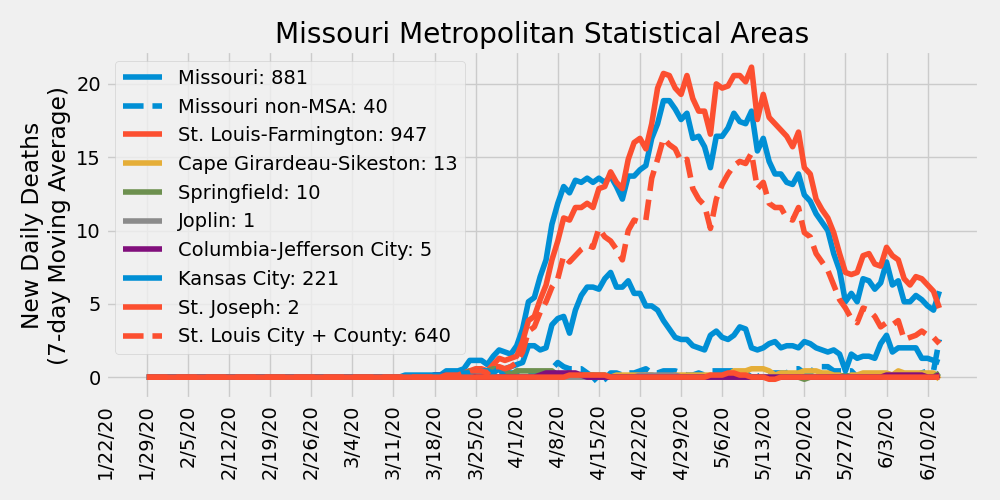
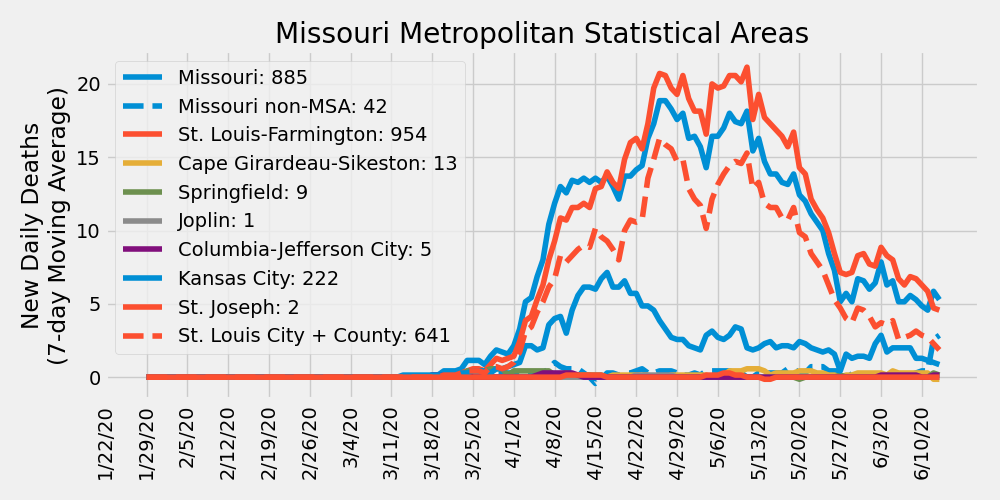
update 6/14/2020

diff --git a/ajvogt-analysis/missouri_analysis.md b/ajvogt-analysis/missouri_analysis.md
@@ -1,6 +1,6 @@
 # COVID-19 Missouri Statistics & Regional Breakdowns
 Author: Adam J. Vogt  
-Updated: 06/13/2020  
+Updated: 06/14/2020  
 Source: [COVID-19 Data Repository by the Center for Systems Science and Engineering (CSSE) at Johns Hopkins University](https://github.com/CSSEGISandData/COVID-19)  
 Source Code: `/ajvogt-analysis/mo_analysis_script.py`
 
@@ -15,68 +15,68 @@ Legend shows cumulative confirmed cases
 ## Metropolitan Statistical Area (MSA) Counties
 | MSA | State | County | Total Cases | Cases (Last 14 Days) | Cases (Last 7 Days) |
 |-----|-------|--------|---|---|---|
-| St. Louis-Farmington | Missouri | Lincoln | 88 | -21 | -30 |
-| St. Louis-Farmington | Missouri | Warren | 31 | 3 | 2 |
-| St. Louis-Farmington | Missouri | Franklin | 166 | 26 | 17 |
-| St. Louis-Farmington | Missouri | Jefferson | 374 | 25 | -24 |
-| St. Louis-Farmington | Missouri | St. Charles | 882 | 114 | 61 |
-| St. Louis-Farmington | Missouri | St. Louis | 5460 | 480 | 198 |
-| St. Louis-Farmington | Missouri | St. Louis City | 2179 | 263 | 126 |
-| St. Louis-Farmington | Missouri | St. Francois | 40 | 6 | 2 |
-| St. Louis-Farmington | Illinois | Monroe | 106 | 12 | 6 |
-| St. Louis-Farmington | Illinois | St. Clair | 1392 | 301 | 130 |
-| St. Louis-Farmington | Illinois | Madison | 683 | 118 | 59 |
+| St. Louis-Farmington | Missouri | Lincoln | 87 | -22 | -34 |
+| St. Louis-Farmington | Missouri | Warren | 30 | 2 | 1 |
+| St. Louis-Farmington | Missouri | Franklin | 166 | 27 | 16 |
+| St. Louis-Farmington | Missouri | Jefferson | 376 | 27 | -22 |
+| St. Louis-Farmington | Missouri | St. Charles | 890 | 115 | 54 |
+| St. Louis-Farmington | Missouri | St. Louis | 5506 | 492 | 201 |
+| St. Louis-Farmington | Missouri | St. Louis City | 2195 | 265 | 127 |
+| St. Louis-Farmington | Missouri | St. Francois | 40 | 5 | 1 |
+| St. Louis-Farmington | Illinois | Monroe | 109 | 14 | 9 |
+| St. Louis-Farmington | Illinois | St. Clair | 1422 | 301 | 126 |
+| St. Louis-Farmington | Illinois | Madison | 707 | 135 | 73 |
 | St. Louis-Farmington | Illinois | Macoupin | 46 | 1 | 0 |
 | St. Louis-Farmington | Illinois | Jersey | 28 | 8 | 4 |
-| St. Louis-Farmington | Illinois | Clinton | 203 | 22 | 13 |
+| St. Louis-Farmington | Illinois | Clinton | 207 | 21 | 14 |
 | St. Louis-Farmington | Illinois | Calhoun | 1 | 0 | 0 |
 | St. Louis-Farmington | Illinois | Bond | 12 | 0 | 0 |
-| Cape Girardeau-Sikeston | Missouri | Cape Girardeau | 101 | 28 | 18 |
-| Cape Girardeau-Sikeston | Missouri | Bollinger | 8 | 2 | 1 |
-| Cape Girardeau-Sikeston | Illinois | Alexander | 16 | 8 | 2 |
-| Cape Girardeau-Sikeston | Missouri | Scott | 134 | 34 | 15 |
-| Springfield | Missouri | Greene | 185 | 46 | 14 |
-| Springfield | Missouri | Christian | 29 | 8 | 0 |
+| Cape Girardeau-Sikeston | Missouri | Cape Girardeau | 104 | 31 | 19 |
+| Cape Girardeau-Sikeston | Missouri | Bollinger | 9 | 3 | 2 |
+| Cape Girardeau-Sikeston | Illinois | Alexander | 17 | 9 | 2 |
+| Cape Girardeau-Sikeston | Missouri | Scott | 139 | 31 | 18 |
+| Springfield | Missouri | Greene | 188 | 40 | 14 |
+| Springfield | Missouri | Christian | 29 | 6 | 0 |
 | Springfield | Missouri | Webster | 18 | 1 | 0 |
-| Springfield | Missouri | Polk | 7 | 4 | 3 |
+| Springfield | Missouri | Polk | 8 | 5 | 4 |
 | Springfield | Missouri | Dallas | 6 | 3 | 2 |
-| Joplin | Missouri | Jasper | 107 | 71 | 61 |
-| Joplin | Missouri | Newton | 49 | 33 | 26 |
+| Joplin | Missouri | Jasper | 122 | 86 | 72 |
+| Joplin | Missouri | Newton | 62 | 46 | 36 |
 | Columbia-Jefferson City | Missouri | Howard | 3 | 0 | 0 |
-| Columbia-Jefferson City | Missouri | Boone | 204 | 60 | 31 |
+| Columbia-Jefferson City | Missouri | Boone | 208 | 61 | 23 |
 | Columbia-Jefferson City | Missouri | Cooper | 9 | 0 | 0 |
 | Columbia-Jefferson City | Missouri | Moniteau | 49 | 3 | 0 |
 | Columbia-Jefferson City | Missouri | Cole | 57 | -3 | -4 |
-| Columbia-Jefferson City | Missouri | Callaway | 34 | 7 | 2 |
+| Columbia-Jefferson City | Missouri | Callaway | 36 | 7 | 4 |
 | Columbia-Jefferson City | Missouri | Osage | 5 | 0 | 0 |
-| Kansas City | Missouri | Kansas City | 1680 | 563 | 212 |
-| Kansas City | Missouri | Jackson | 791 | 231 | 105 |
-| Kansas City | Missouri | Clay | 284 | 117 | 98 |
-| Kansas City | Missouri | Cass | 111 | 26 | 11 |
-| Kansas City | Missouri | Platte | 89 | 19 | 12 |
-| Kansas City | Missouri | Lafayette | 84 | 11 | 4 |
-| Kansas City | Missouri | Ray | 24 | 5 | 1 |
-| Kansas City | Missouri | Clinton | 19 | 1 | -1 |
+| Kansas City | Missouri | Kansas City | 1690 | 541 | 189 |
+| Kansas City | Missouri | Jackson | 819 | 249 | 123 |
+| Kansas City | Missouri | Clay | 288 | 117 | 62 |
+| Kansas City | Missouri | Cass | 111 | 22 | 9 |
+| Kansas City | Missouri | Platte | 97 | 27 | 20 |
+| Kansas City | Missouri | Lafayette | 85 | 12 | 4 |
+| Kansas City | Missouri | Ray | 25 | 6 | 2 |
+| Kansas City | Missouri | Clinton | 20 | 2 | 0 |
 | Kansas City | Missouri | Bates | 12 | 5 | 0 |
-| Kansas City | Missouri | Caldwell | 7 | 2 | 0 |
-| Kansas City | Kansas | Johnson | 1015 | 214 | 105 |
-| Kansas City | Kansas | Wyandotte | 1626 | 291 | 155 |
+| Kansas City | Missouri | Caldwell | 7 | 2 | -1 |
+| Kansas City | Kansas | Johnson | 1031 | 219 | 100 |
+| Kansas City | Kansas | Wyandotte | 1638 | 301 | 152 |
 | Kansas City | Kansas | Leavenworth | 1106 | 24 | 6 |
 | Kansas City | Kansas | Miami | 16 | 9 | 9 |
 | Kansas City | Kansas | Linn | 11 | 0 | 0 |
-| St. Joseph | Missouri | Andrew | 34 | 4 | 2 |
-| St. Joseph | Missouri | Buchanan | 772 | 85 | 31 |
-| St. Joseph | Missouri | DeKalb | 7 | 1 | 1 |
+| St. Joseph | Missouri | Andrew | 35 | 5 | 2 |
+| St. Joseph | Missouri | Buchanan | 784 | 94 | 40 |
+| St. Joseph | Missouri | DeKalb | 8 | 2 | 1 |
 | St. Joseph | Kansas | Doniphan | 20 | 5 | 2 |
-| Missouri non-MSA | Missouri | Adair | 75 | 25 | 8 |
+| Missouri non-MSA | Missouri | Adair | 80 | 29 | 12 |
 | Missouri non-MSA | Missouri | Atchison | 3 | 0 | 0 |
-| Missouri non-MSA | Missouri | Audrain | 122 | 49 | 14 |
-| Missouri non-MSA | Missouri | Barry | 9 | 0 | 0 |
+| Missouri non-MSA | Missouri | Audrain | 122 | 43 | 11 |
+| Missouri non-MSA | Missouri | Barry | 10 | 1 | 1 |
 | Missouri non-MSA | Missouri | Barton | 1 | 1 | 1 |
-| Missouri non-MSA | Missouri | Benton | 14 | 4 | 2 |
-| Missouri non-MSA | Missouri | Butler | 40 | 8 | -7 |
+| Missouri non-MSA | Missouri | Benton | 14 | 3 | 1 |
+| Missouri non-MSA | Missouri | Butler | 41 | 6 | -6 |
 | Missouri non-MSA | Missouri | Camden | 38 | 0 | 0 |
-| Missouri non-MSA | Missouri | Carroll | 9 | 1 | 0 |
+| Missouri non-MSA | Missouri | Carroll | 10 | 2 | 1 |
 | Missouri non-MSA | Missouri | Carter | 5 | 0 | 0 |
 | Missouri non-MSA | Missouri | Cedar | 9 | 0 | 0 |
 | Missouri non-MSA | Missouri | Chariton | 6 | 0 | 0 |
@@ -86,58 +86,58 @@ Legend shows cumulative confirmed cases
 | Missouri non-MSA | Missouri | Daviess | 7 | 3 | 2 |
 | Missouri non-MSA | Missouri | Dent | 1 | 1 | 1 |
 | Missouri non-MSA | Missouri | Douglas | 3 | 3 | 3 |
-| Missouri non-MSA | Missouri | Dunklin | 54 | 21 | 6 |
+| Missouri non-MSA | Missouri | Dunklin | 55 | 17 | 7 |
 | Missouri non-MSA | Missouri | Gasconade | 2 | 0 | 0 |
-| Missouri non-MSA | Missouri | Gentry | 54 | 28 | 8 |
-| Missouri non-MSA | Missouri | Grundy | 8 | 8 | 8 |
+| Missouri non-MSA | Missouri | Gentry | 54 | 28 | 2 |
+| Missouri non-MSA | Missouri | Grundy | 12 | 12 | 12 |
 | Missouri non-MSA | Missouri | Harrison | 9 | 0 | 0 |
-| Missouri non-MSA | Missouri | Henry | 16 | 5 | 4 |
+| Missouri non-MSA | Missouri | Henry | 16 | 4 | 4 |
 | Missouri non-MSA | Missouri | Hickory | 0 | 0 | 0 |
 | Missouri non-MSA | Missouri | Holt | 1 | 0 | -1 |
-| Missouri non-MSA | Missouri | Howell | 19 | 13 | 8 |
+| Missouri non-MSA | Missouri | Howell | 20 | 13 | 8 |
 | Missouri non-MSA | Missouri | Iron | 2 | 0 | -1 |
 | Missouri non-MSA | Missouri | Knox | 2 | 2 | 2 |
 | Missouri non-MSA | Missouri | Laclede | 9 | 6 | 2 |
 | Missouri non-MSA | Missouri | Lawrence | 7 | -1 | -1 |
 | Missouri non-MSA | Missouri | Lewis | 7 | 0 | 0 |
-| Missouri non-MSA | Missouri | Livingston | 4 | 1 | 0 |
-| Missouri non-MSA | Missouri | McDonald | 63 | 43 | 40 |
-| Missouri non-MSA | Missouri | Macon | 6 | 2 | 0 |
+| Missouri non-MSA | Missouri | Livingston | 7 | 4 | 2 |
+| Missouri non-MSA | Missouri | McDonald | 70 | 50 | 45 |
+| Missouri non-MSA | Missouri | Macon | 7 | 3 | 1 |
 | Missouri non-MSA | Missouri | Maries | 2 | 0 | 0 |
-| Missouri non-MSA | Missouri | Marion | 7 | 2 | 2 |
+| Missouri non-MSA | Missouri | Marion | 8 | 3 | 3 |
 | Missouri non-MSA | Missouri | Mercer | 5 | 5 | 5 |
 | Missouri non-MSA | Missouri | Miller | 4 | 0 | 0 |
-| Missouri non-MSA | Missouri | Mississippi | 70 | 14 | 9 |
-| Missouri non-MSA | Missouri | Montgomery | 12 | 3 | 2 |
+| Missouri non-MSA | Missouri | Mississippi | 71 | 15 | 10 |
+| Missouri non-MSA | Missouri | Montgomery | 12 | 3 | 1 |
 | Missouri non-MSA | Missouri | Morgan | 9 | 0 | 0 |
-| Missouri non-MSA | Missouri | New Madrid | 32 | 12 | 11 |
-| Missouri non-MSA | Missouri | Nodaway | 15 | 3 | 1 |
-| Missouri non-MSA | Missouri | Oregon | 3 | 1 | 1 |
+| Missouri non-MSA | Missouri | New Madrid | 35 | 14 | 14 |
+| Missouri non-MSA | Missouri | Nodaway | 15 | 2 | 1 |
+| Missouri non-MSA | Missouri | Oregon | 4 | 2 | 2 |
 | Missouri non-MSA | Missouri | Ozark | 0 | 0 | 0 |
-| Missouri non-MSA | Missouri | Pemiscot | 99 | 23 | 9 |
-| Missouri non-MSA | Missouri | Perry | 80 | 25 | 11 |
-| Missouri non-MSA | Missouri | Pettis | 84 | 6 | 5 |
+| Missouri non-MSA | Missouri | Pemiscot | 102 | 24 | 11 |
+| Missouri non-MSA | Missouri | Perry | 84 | 27 | 15 |
+| Missouri non-MSA | Missouri | Pettis | 85 | 7 | 6 |
 | Missouri non-MSA | Missouri | Phelps | 6 | 2 | 1 |
-| Missouri non-MSA | Missouri | Pike | 31 | 14 | 3 |
-| Missouri non-MSA | Missouri | Pulaski | 106 | 72 | 67 |
+| Missouri non-MSA | Missouri | Pike | 31 | 12 | 3 |
+| Missouri non-MSA | Missouri | Pulaski | 106 | 72 | -1 |
 | Missouri non-MSA | Missouri | Putnam | 1 | 1 | 1 |
 | Missouri non-MSA | Missouri | Ralls | 5 | 2 | 0 |
-| Missouri non-MSA | Missouri | Randolph | 10 | 1 | 0 |
+| Missouri non-MSA | Missouri | Randolph | 10 | 0 | 0 |
 | Missouri non-MSA | Missouri | Reynolds | 2 | 0 | 0 |
-| Missouri non-MSA | Missouri | Ripley | 12 | 5 | 1 |
-| Missouri non-MSA | Missouri | Ste. Genevieve | 13 | 2 | 1 |
-| Missouri non-MSA | Missouri | Saline | 270 | 1 | -11 |
+| Missouri non-MSA | Missouri | Ripley | 11 | 4 | 0 |
+| Missouri non-MSA | Missouri | Ste. Genevieve | 14 | 2 | 2 |
+| Missouri non-MSA | Missouri | Saline | 271 | 2 | -12 |
 | Missouri non-MSA | Missouri | Schuyler | 1 | 1 | 1 |
 | Missouri non-MSA | Missouri | Scotland | 8 | 4 | -1 |
 | Missouri non-MSA | Missouri | Shannon | 6 | 6 | 6 |
 | Missouri non-MSA | Missouri | Shelby | 1 | 0 | 0 |
-| Missouri non-MSA | Missouri | Stoddard | 113 | 35 | 8 |
+| Missouri non-MSA | Missouri | Stoddard | 118 | 39 | 12 |
 | Missouri non-MSA | Missouri | Stone | 7 | 3 | -3 |
-| Missouri non-MSA | Missouri | Sullivan | 72 | 17 | 9 |
+| Missouri non-MSA | Missouri | Sullivan | 77 | 20 | 12 |
 | Missouri non-MSA | Missouri | Taney | 15 | 1 | 1 |
 | Missouri non-MSA | Missouri | Texas | 1 | 0 | 0 |
 | Missouri non-MSA | Missouri | Vernon | 12 | 3 | 2 |
-| Missouri non-MSA | Missouri | Washington | 13 | 2 | 1 |
+| Missouri non-MSA | Missouri | Washington | 13 | 2 | 0 |
 | Missouri non-MSA | Missouri | Wayne | 0 | 0 | 0 |
 | Missouri non-MSA | Missouri | Worth | 4 | 0 | 0 |
-| Missouri non-MSA | Missouri | Wright | 14 | 3 | 3 |
+| Missouri non-MSA | Missouri | Wright | 14 | 3 | 1 |
